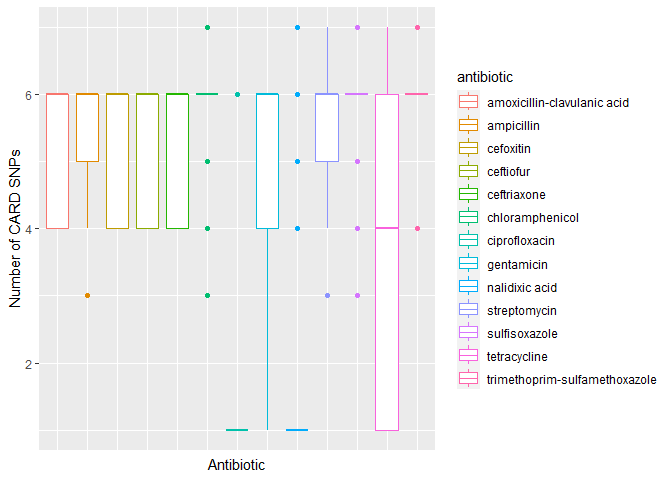
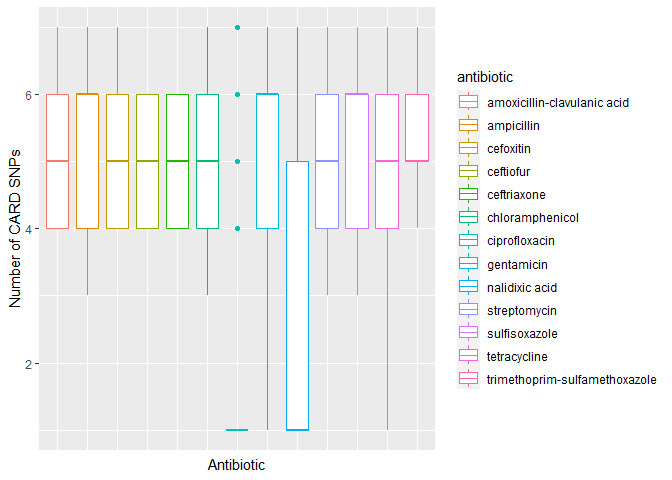
run EDA analysis for SNPs data batch2.5

diff --git a/eda/data_exploration.md b/eda/data_exploration.md
@@ -162,7 +162,7 @@ snps_data
 
 ``` r
 # Results from CARD database
-card_data_filepath <- paste0("data/results/card/card_results", "_batch2", ".tsv")
+card_data_filepath <- paste0("data/results/card/card_results", "_batch2.5", ".tsv")
 card_data <- read_tsv(card_data_filepath, na = c("n/a"))
 ```
 
@@ -171,12 +171,12 @@ card_data <- read_tsv(card_data_filepath, na = c("n/a"))
     ##   dat <- vroom(...)
     ##   problems(dat)
 
-    ## Rows: 19488 Columns: 27
+    ## Rows: 120203 Columns: 27
     ## -- Column specification --------------------------------------------------------
     ## Delimiter: "\t"
-    ## chr (17): SAMPLE_ID, ORF_ID, Contig, Orientation, Cut_Off, Best_Hit_ARO, Mod...
+    ## chr (16): SAMPLE_ID, ORF_ID, Contig, Orientation, Cut_Off, Best_Hit_ARO, Mod...
     ## dbl  (9): TAX_ID, Start, Stop, Pass_Bitscore, Best_Hit_Bitscore, Best_Identi...
-    ## lgl  (1): Nudged
+    ## lgl  (2): Other_SNPs, Nudged
     ## 
     ## i Use `spec()` to retrieve the full column specification for this data.
     ## i Specify the column types or set `show_col_types = FALSE` to quiet this message.
@@ -188,7 +188,7 @@ card_data <- card_data %>%
 card_data
 ```
 
-    ## # A tibble: 19,488 x 27
+    ## # A tibble: 120,203 x 27
     ##    TAX_ID SAMPLE_ID  ORF_ID Contig  Start   Stop Orien~1 Cut_Off Pass_~2 Best_~3
     ##     <dbl> <chr>      <chr>  <chr>   <dbl>  <dbl> <chr>   <chr>     <dbl>   <dbl>
     ##  1    195 GCA_00528~ AACMV~ AACMV~  40782  41555 +       Perfect     500    516.
@@ -201,9 +201,9 @@ card_data
     ##  8    195 GCA_00528~ AACMR~ AACMR~   3297   5216 +       Strict      300   1304.
     ##  9    195 GCA_00528~ AACMR~ AACMR~   2577   3350 +       Perfect     500    516.
     ## 10    197 GCA_00529~ AACNR~ AACNR~  20452  21225 -       Perfect     500    516.
-    ## # ... with 19,478 more rows, 17 more variables: Best_Hit_ARO <chr>,
+    ## # ... with 120,193 more rows, 17 more variables: Best_Hit_ARO <chr>,
     ## #   Best_Identities <dbl>, ARO <dbl>, Model_type <chr>,
-    ## #   SNPs_in_Best_Hit_ARO <chr>, Other_SNPs <chr>, `Drug Class` <chr>,
+    ## #   SNPs_in_Best_Hit_ARO <chr>, Other_SNPs <lgl>, `Drug Class` <chr>,
     ## #   `Resistance Mechanism` <chr>, `AMR Gene Family` <chr>, Predicted_DNA <chr>,
     ## #   Predicted_Protein <chr>, CARD_Protein_Sequence <chr>,
     ## #   `Percentage Length of Reference Sequence` <dbl>, ID <chr>, Model_ID <dbl>,
@@ -977,7 +977,7 @@ snps_data_output_path <- paste0("data/results/variant_calling/snps_data", batch_
 snps_data_wide %>%
   write_tsv(snps_data_output_path)
 
-card_snps_data_output_path <- paste0("data/results/card/card_snps_data", "_batch2", "_cleaned.tsv")
+card_snps_data_output_path <- paste0("data/results/card/card_snps_data", "_batch2.5", "_cleaned.tsv")
 card_snps_data_wide %>%
   write_tsv(card_snps_data_output_path)
 
